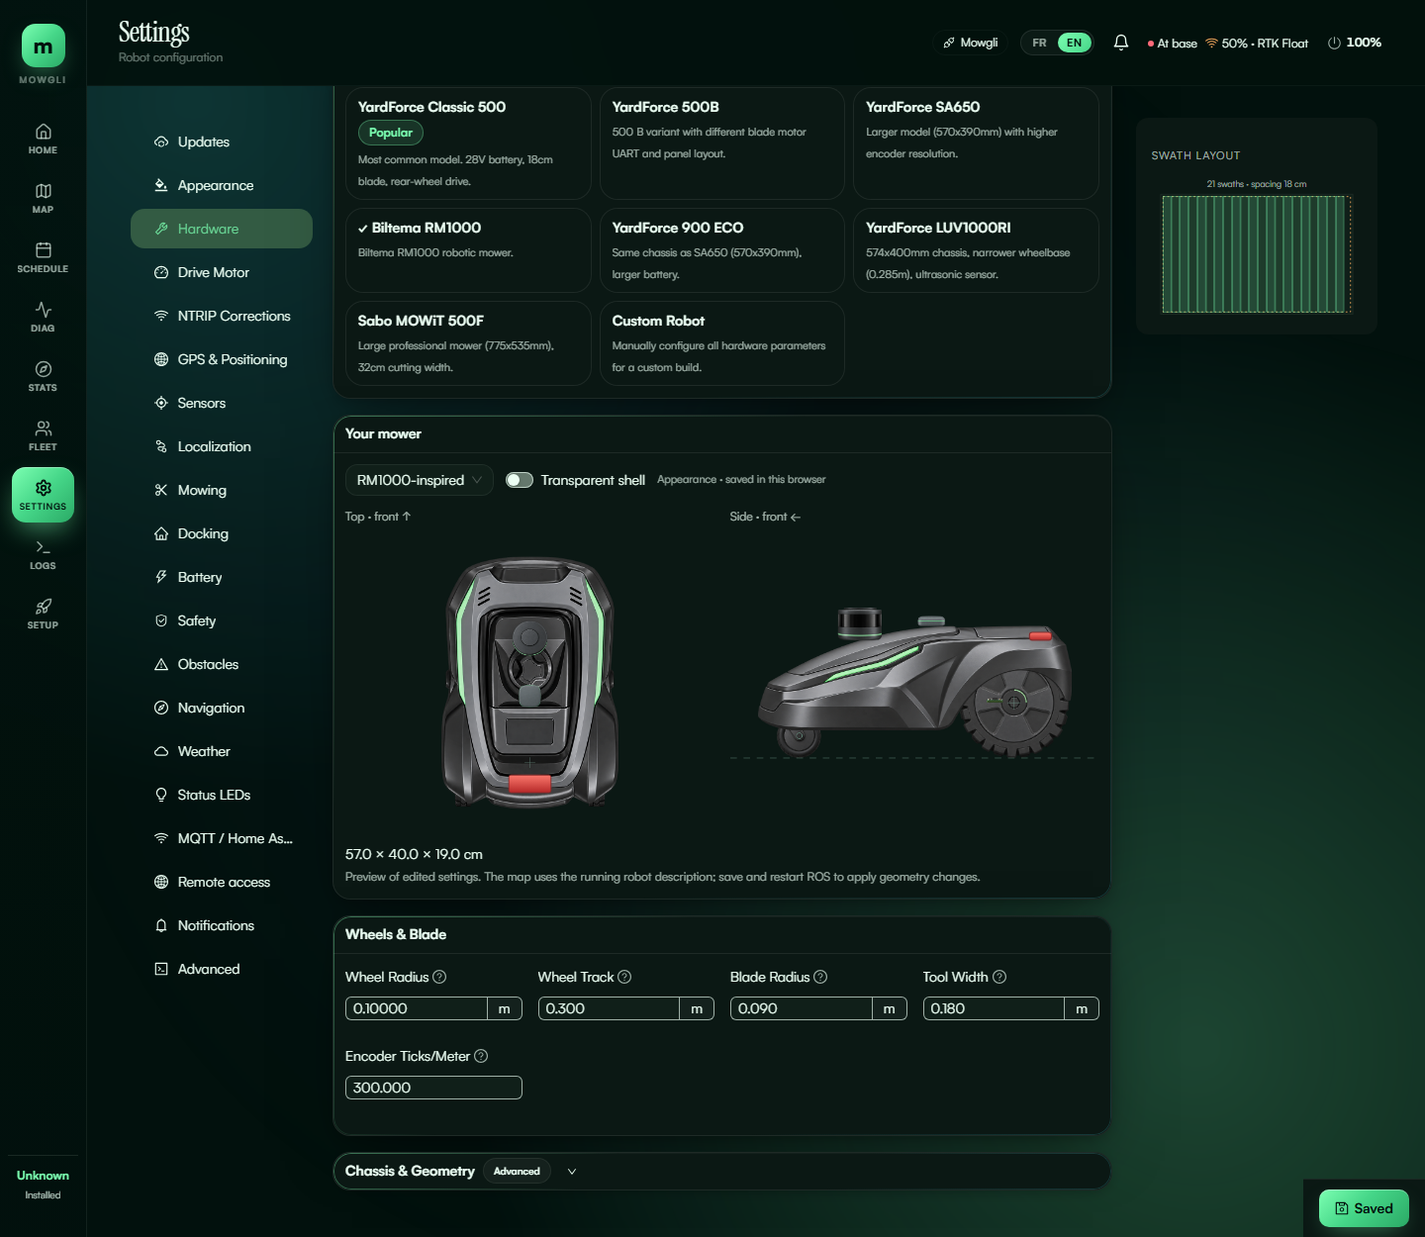
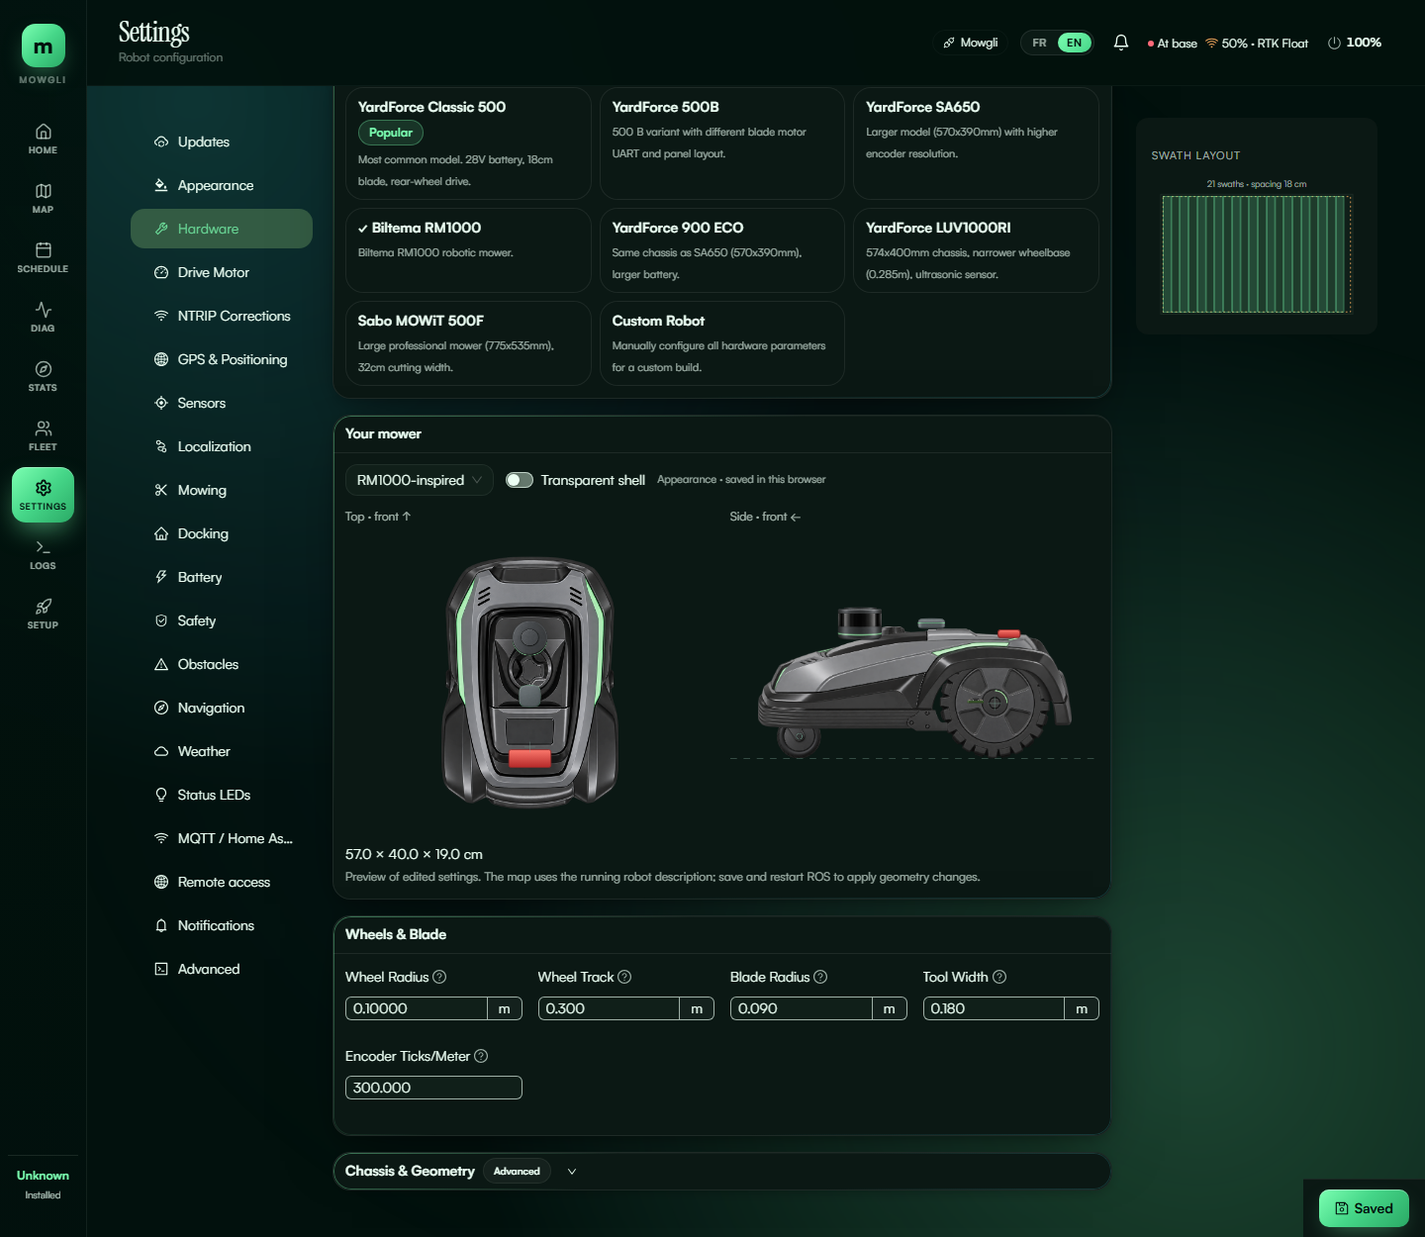
fix(gui): refine RM1000 side artwork and rear console anchors

Changed region(s): [[0.5312, 0.4992, 0.75, 0.624], [0.3438, 0.5928, 0.4062, 0.6552]]

diff --git a/gui/web/src/components/robot/LayeredMower.tsx b/gui/web/src/components/robot/LayeredMower.tsx
@@ -17,7 +17,7 @@ function ShellSprite({style, view, x, y, width, height, artwork}: {
         <svg data-layer="shell-art" x={x} y={y} width={width} height={height}
         viewBox={[sx,sy,sw,sh].join(" ")} preserveAspectRatio="none" overflow="hidden">
         <rect data-shell-bounds x={sx} y={sy} width={sw} height={sh} fill="none"/>
-        <image onLoad={()=>setLoaded(true)} onError={()=>setLoaded(false)} href={artwork === "map" ? `/assets/robots/layered/map/${style}-${view}.webp` : `/assets/robots/layered/${style}.png`}
+        <image onLoad={()=>setLoaded(true)} onError={()=>setLoaded(false)} href={artwork === "map" ? `/assets/robots/layered/map/${style}-${view}.webp` : `/assets/robots/layered/${shell.files?.[view] ?? `${style}.png`}`}
             x={artwork === "map" ? sx : 0} y={artwork === "map" ? sy : 0}
             width={artwork === "map" ? sw : shell.size[0]} height={artwork === "map" ? sh : shell.size[1]}/>
     </svg></>;
@@ -63,7 +63,8 @@ export const LayeredMower = memo(function LayeredMower({robot: r, style, transpa
     robot: RobotGeometry; style: MowerStyle; transparent: boolean; view?: RobotView; sensors?: boolean; highlightSensors?: boolean; internalDetails?: boolean; artwork?:"full"|"map";
 }) {
     const id = useId();
-    const rearX = r.chassisCenterX-r.baseLength*.40;
+    const stopAnchor = SHELLS[style].stop;
+    const rearX = r.chassisCenterX+r.baseLength*(.5-stopAnchor.fromFront);
     const buttonW = Math.min(.095,r.baseWidth*.30), buttonD = Math.min(.04,r.baseLength*.08);
     const bodyZ = r.chassisCenterZ ?? r.baseHeight/2;
     const bladeX = r.bladeX ?? r.chassisCenterX;
@@ -97,7 +98,7 @@ export const LayeredMower = memo(function LayeredMower({robot: r, style, transpa
         </g>
         <g data-layer="stop" data-robot-x={rearX}>
             <rect x={view === "top" ? -buttonW/2 : -rearX-buttonD/2}
-                y={view === "top" ? -rearX-buttonD/2 : -bodyZ-r.baseHeight/2+.012}
+                y={view === "top" ? -rearX-buttonD/2 : -bodyZ-r.baseHeight/2+r.baseHeight*stopAnchor.roofFromTop-.011}
                 width={view === "top" ? buttonW : buttonD} height={view === "top" ? buttonD : .014}
                 rx={.005} fill={`url(#${id})`} stroke="#872b2a" strokeWidth={.002}/>
         </g>

diff --git a/gui/web/src/components/robot/shellAssets.ts b/gui/web/src/components/robot/shellAssets.ts
@@ -1,15 +1,26 @@
 import type {MowerStyle} from "../../hooks/useMowerVisual";
 
-type Shell = {size: [number, number]; top: [number, number, number, number]; side: [number, number, number, number]};
+type Shell = {
+    /** Cosmetic console anchor within visible chassis bounds: front=0, rear=1.
+     * roofFromTop is the side silhouette height at that same longitudinal point.
+     * These move only the drawn button, never URDF geometry or safety controls. */
+    stop: {fromFront: number; roofFromTop: number};
+    files?: Partial<Record<"top" | "side", string>>;
+    size: [number, number];
+    top: [number, number, number, number];
+    side: [number, number, number, number];
+};
 /** Visible shell bounds in source pixels. Padding is deliberately excluded from
  * physical scaling. Bounds are the tight alpha >220 envelope of each isolated
  * source projection, verified against decoded PNG pixels in Playwright.
  * Both opacity modes use these exact same atlas regions. */
 export const SHELLS: Record<MowerStyle, Shell> = {
-    rm1000: {size: [1774,887], top: [73,48,624,804], side: [758,401,973,357]},
-    rounded: {size: [1774,887], top: [75,63,620,788], side: [911,339,825,284]},
-    sculpted: {size: [1774,887], top: [106,32,630,829], side: [795,302,931,338]},
-    utility: {size: [1774,887], top: [117,48,607,816], side: [831,356,874,261]},
-    yardforce: {size: [1774,887], top: [113,29,629,818], side: [852,274,857,371]},
+    // Separate side source preserves the approved top atlas byte-for-byte.
+    // Per-view sources use the same canvas dimensions as the default atlas.
+    rm1000: {stop: {fromFront: 0.8, roofFromTop: 0.092}, files: {side: "rm1000-side.png"}, size: [1774,887], top: [73,48,624,804], side: [44,162,1702,622]},
+    rounded: {stop: {fromFront: 0.82, roofFromTop: 0.092}, size: [1774,887], top: [75,63,620,788], side: [911,339,825,284]},
+    sculpted: {stop: {fromFront: 0.8, roofFromTop: 0.012}, size: [1774,887], top: [106,32,630,829], side: [795,302,931,338]},
+    utility: {stop: {fromFront: 0.84, roofFromTop: 0.069}, size: [1774,887], top: [117,48,607,816], side: [831,356,874,261]},
+    yardforce: {stop: {fromFront: 0.89, roofFromTop: 0.065}, size: [1774,887], top: [113,29,629,818], side: [852,274,857,371]},
 };
 

diff --git a/gui/web/tests/e2e/layered-mower.spec.ts b/gui/web/tests/e2e/layered-mower.spec.ts
@@ -126,15 +126,17 @@ test("all shell dimensions describe opaque chassis edges, excluding atlas margin
     const measured=await page.evaluate(async()=>{
         const result:Record<string,Record<string,number[]>>={};
         for(const style of ["rounded","sculpted","utility","yardforce","rm1000"]){
-            const image=new Image();image.src=`/assets/robots/layered/${style}.png`;await image.decode();
-            const canvas=document.createElement("canvas");canvas.width=image.width;canvas.height=image.height;
-            const ctx=canvas.getContext("2d",{willReadFrequently:true})!;ctx.drawImage(image,0,0);
-            const pixels=ctx.getImageData(0,0,image.width,image.height).data;
             result[style]={};
-            // The two isolated projections are separated at x=768 in these
-            // source atlases. Scan their whole cells, not just the crop metadata.
             const split = style === "rm1000" ? 740 : 768;
-            for(const [view,start,end] of [["top",0,split],["side",split,image.width]] as const){
+            for(const view of ["top","side"] as const){
+                const separateSide=style === "rm1000" && view === "side";
+                const image=new Image();image.src=`/assets/robots/layered/${style}${separateSide ? "-side" : ""}.png`;await image.decode();
+                const canvas=document.createElement("canvas");canvas.width=image.width;canvas.height=image.height;
+                const ctx=canvas.getContext("2d",{willReadFrequently:true})!;ctx.drawImage(image,0,0);
+                const pixels=ctx.getImageData(0,0,image.width,image.height).data;
+                // Scan the entire source cell, independent of crop metadata.
+                const start=separateSide || view === "top" ? 0 : split;
+                const end=separateSide || view === "side" ? image.width : split;
                 let minX=image.width,minY=image.height,maxX=-1,maxY=-1;
                 for(let y=0;y<image.height;y++)for(let x=start;x<end;x++){
                     // Ignore the antialias fringe; alpha >220 defines solid shell.

diff --git a/gui/web/tests/e2e/fixtures/chassis-gallery.tsx b/gui/web/tests/e2e/fixtures/chassis-gallery.tsx
@@ -9,6 +9,7 @@ const robot=previewRobotGeometry(parseRobotUrdf(ROBOT_URDF)!,{
     chassis_length:.60,chassis_width:.45,chassis_height:.19,chassis_z_offset:-.05,
     wheel_radius:.1,wheel_width:.04,wheel_track:.325,caster_x_offset:.39,caster_track:.28,
 });
+const rm1000Robot=previewRobotGeometry(robot,{chassis_center_x:.15,caster_x_offset:.36});
 const styles=[
     ["rounded","Rounded","Soft curves · compact silhouette"],
     ["sculpted","Sculpted","Flowing panels · contoured shoulders"],
@@ -36,11 +37,11 @@ createRoot(document.getElementById("root")!).render(<main>
     <div className="grid">{styles.map(([style,label,description],i)=><article key={style}>
         <div className="title"><span className="number">0{i+1}</span><h2>{label}</h2></div><p>{description}</p>
         <div className="views"><div className="view"><svg viewBox="-.255 -.51 .51 .66" aria-label={label+" top"}>
-            <LayeredMower robot={robot} style={style} transparent={false} view="top" sensors={false} internalDetails={false}/>
+            <LayeredMower robot={style === "rm1000" ? rm1000Robot : robot} style={style} transparent={false} view="top" sensors={false} internalDetails={false}/>
         </svg><div className="caption">TOP · FRONT ↑</div></div>
         <div className="view"><svg viewBox="-.51 -.28 .66 .48" aria-label={label+" side"}>
             <path d="M -.49 .102 H .14" stroke="#476c59" strokeWidth=".001" strokeDasharray=".012 .012"/>
-            <LayeredMower robot={robot} style={style} transparent={false} view="side" sensors={false} internalDetails={false}/>
+            <LayeredMower robot={style === "rm1000" ? rm1000Robot : robot} style={style} transparent={false} view="side" sensors={false} internalDetails={false}/>
         </svg><div className="caption">SIDE · FRONT ←</div></div></div>
     </article>)}<article>
         <div className="title"><span className="number">06</span><h2>Paired dock</h2></div>

diff --git a/gui/web/tests/e2e/layered-pr-gallery.spec.ts b/gui/web/tests/e2e/layered-pr-gallery.spec.ts
@@ -25,8 +25,9 @@ for(const example of ["yardforce500","custom-angular","rm1000"] as const){
                 lidar_x:.31,lidar_y:0,lidar_z:.139,lidar_yaw:0,
                 imu_x:.04,imu_y:-.09,imu_z:.015,imu_yaw:0} : example === "rm1000" ? {...custom,mower_model:"BiltemaRM1000",robot_name:"RM1000 illustration",
                 chassis_length:.57,chassis_width:.40,chassis_height:.19,chassis_z_offset:-.05,
-                chassis_center_x:.18,wheel_width:.04,wheel_track:.30,caster_x_offset:.39,caster_track:.26,
-                blade_radius:.09,tool_width:.18,gps_x:.15,gps_z:.148,lidar_x:.28,lidar_z:.143} : custom;
+                // Illustrative body position centres the photo-based arch over the rear axle.
+                chassis_center_x:.145,wheel_width:.04,wheel_track:.30,caster_x_offset:.355,caster_track:.26,
+                blade_radius:.09,tool_width:.18,gps_x:.115,gps_z:.145,lidar_x:.245,lidar_z:.145} : custom;
         await page.addInitScript(({style})=>{
             localStorage.setItem("mowglinext.lang","en");
             localStorage.setItem("mowgli.robot-visual.v1",JSON.stringify({style,transparent:false}));

diff --git a/gui/web/src/components/robot/LayeredMower.test.tsx b/gui/web/src/components/robot/LayeredMower.test.tsx
@@ -15,7 +15,9 @@ describe("layered mower",()=>{
             const wheels=container.querySelector('[data-layer="wheels"]')!.outerHTML;
             const sensors=Array.from(container.querySelectorAll("[data-sensor]")).map(s=>s.outerHTML);
             const stop=container.querySelector('[data-layer="stop"]')!;
-            expect(Number(stop.getAttribute("data-robot-x"))).toBeLessThan(robot.wheelXOffset);
+            // A rear console may be ahead of the drive axle but must stay in the rear half.
+            expect(Number(stop.getAttribute("data-robot-x"))).toBeLessThan(robot.chassisCenterX);
+            expect(Number(stop.getAttribute("data-robot-x"))).toBeGreaterThan(robot.chassisCenterX-robot.baseLength/2);
             expect(SHELLS[style].top[2]).toBeLessThan(SHELLS[style].size[0]);
             rerender(<svg><LayeredMower robot={robot} style={style} view={view} transparent/></svg>);
             expect(container.querySelector('[data-layer="shell"]')).toHaveAttribute("opacity","0.24");

diff --git a/gui/web/src/components/robot/rm1000-artwork-prompt.md b/gui/web/src/components/robot/rm1000-artwork-prompt.md
@@ -9,3 +9,16 @@ Project output: `public/assets/robots/layered/rm1000.png`.
 Prompt:
 
 Create one transparent sprite atlas with two precisely orthographic views of a robotic mower BODY SHELL ONLY. First image is shape reference: Biltema RM1000, recognise its long rounded rectangular shell, two broad shoulder strips, black recessed central panel, forward vents, rear console. Second image is style and atlas layout reference only: graphite gray materials and subtle mint green highlights. Restyle the RM1000 reference shell in graphite gray with restrained mint highlights (no blue). Layout: top view occupies left 45% of canvas, front faces UP, rear console at BOTTOM. Side elevation occupies right 52%, front faces LEFT, rear wheel arch on RIGHT. Side elevation is illustrative because only a top reference exists; keep consistent top features and a low smooth profile. Both views must depict same shell. Remove all wheels, casters, sensors, stickers, writing, branding and logos. No red STOP button baked into either view: app adds a separate red button at rear. Rear body intact with a clean console panel, no empty rear hole; side has a rear wheel recess. Truly transparent background and transparent wheel recesses. No floor, ground shadows, labels, measurement marks or perspective. Keep all shell edges inside frame with a little clear padding and a clear gap between views. Professional UI asset, matching second reference's lighting and quality. Landscape atlas.
+
+## Side-only revision from supplied photograph
+
+Output: `public/assets/robots/layered/rm1000-side.png`.
+Input: user-supplied RM1000 side photo (clipboard ff774aba-79d3-44f9-95be-269d297f4027), with the existing atlas as style reference.
+The top atlas is retained unchanged. Built-in imagegen, transparent background.
+
+Prompt:
+
+Use case: style-transfer. Create a single transparent orthographic SIDE ELEVATION asset of the RM1000 mower BODY SHELL ONLY, front facing LEFT, rear facing RIGHT. First input is the real side/three-quarter photograph: use it for the actual silhouette and body architecture. Second input is our approved gray/mint sprite atlas: use only for color/material/illustration style; do not reproduce its imaginary side shape and do not produce a top view. The real shell has a rounded low front bumper, stepped black lower front skirt, rising rounded shoulder toward rear, recessed central height-adjustment knob near middle/front, rear control console, very large rear wheel opening and a short rear apron descending behind that opening. Translate this photograph into a true horizontal orthographic side elevation without perspective. Gray graphite shell instead of blue, black lower skirt and wheel arch trim, restrained mint accents along shoulder matching approved top. Remove branding/text/logos, remove wheels and casters completely (wheel cutout must be genuinely transparent), remove ground/shadows. No external GPS/lidar, no red stop button (separate UI layer adds rear button); preserve closed rear console around it, not a rear hole. The body only, precise clean edges on fully transparent background, generous clear margin, landscape canvas. This is a layer for assembly with separate wheels. Main wheel arch must be large and open downwards, centred near 80% of shell length from the front, like photograph. Render a faithful stylized shell, not a sports car or generic futuristic body.
+
+Projection correction:
+Correct only the camera projection of this mower shell asset to a TRUE ORTHOGRAPHIC SIDE ELEVATION. Current image shows far too much of the top deck and front face. Camera must be perfectly horizontal at body mid-height, perpendicular to the left side; zero perspective and zero downward angle. Front LEFT, rear RIGHT. Keep the exact same RM1000 body architecture, gray/mint style, big transparent rear wheel opening, lower black front skirt, height adjustment knob and rear console. From exact side-on the knob and console are seen only as low profile silhouettes above the shoulder, NOT broad visible top surfaces. The far side must not be visible at all. Shell only, no wheels/casters/sensors/red stop button/text/branding/shadows. Fully transparent background; clean single side asset centered with padding. Keep skirt horizontal.

diff --git a/gui/web/src/components/robot/README.md b/gui/web/src/components/robot/README.md
@@ -65,7 +65,7 @@ Generation specification:
 - GPS: low rounded square graphite puck; LiDAR: short graphite cylinder;
   IMU: small green PCB with chip and mounting holes.
 - Dock: curved existing generic-station silhouette; head at top/left, horizontal
-  contact pins towards the parking tray. Nominal illustrative footprint 67 × 46 cm,
+  contact pins towards the parking tray. Nominal illustrative footprint 67 Ãƒâ€” 46 cm,
   height 15 cm; not a physical URDF/collision object. The saved dock pose anchors
   the parked rear axle, 10 cm ahead of the entry. Hardware supplies the paired
   dock automatically; the map has no independent dock appearance selector.
@@ -104,7 +104,7 @@ run in a non-root Go container. This feature has not been deployed to .118.
 The YardForce 500/500B starting value is **-0.050 m**, estimated from the supplied
 Classic 500/500B photos, not measured. With the configured 0.100 m wheel radius
 and 0.190 m body height, this puts the bottom 0.050 m and top 0.240 m above ground.
-The value is editable in Hardware → Chassis & Geometry, mirrored in the schema
+The value is editable in Hardware Ã¢â€ â€™ Chassis & Geometry, mirrored in the schema
 and passed through launch to both URDF body visual/collision origins. It does
 not move base_link, wheels, casters, blade or sensor frames and does not change
 the 2D navigation footprint. Other populated mower presets explicitly retain
@@ -278,13 +278,27 @@ renderers. The obsolete static generic mower WebP is no longer shipped.
 ### RM1000 artwork provenance
 
 `rm1000.png` was generated with the built-in imagegen tool from the contributed
-RM1000 overhead photograph plus `sculpted.png` as a style reference. It contains
-only a graphite/mint shell in top/front-up and side/front-left projections;
-wheels, sensors and the rear stop button are separate shared layers. The side
-profile is illustrative, inferred without a side photograph, not CAD. The exact
-prompt is in `rm1000-artwork-prompt.md` beside this file. The original remains in
-the generated-images archive; the project uses the committed copy and compact
-WebP derivatives. Top/side alpha >220 bounds are [73,48,624,804] and
-[758,401,973,357] in the 1774 × 887 atlas. Both solid and transparent modes use
-these same bounds. No RM1000 physical defaults have been invented; its geometry
-preset remains empty and existing/custom dimensions drive the renderer.
+RM1000 overhead photograph plus `sculpted.png` as a style reference. Its approved
+top view is unchanged. The side now uses `rm1000-side.png`, generated from the
+user-supplied RM1000 side photograph (clipboard ff774aba-79d3-44f9-95be-269d297f4027).
+It follows the stepped front skirt, raised console and large rear wheel opening,
+restyled in graphite/mint. Wheels, sensors and the rear stop remain separate layers.
+This is a photo-informed illustration, not CAD or new physical measurements.
+
+The exact generation and projection-correction prompts are in
+`rm1000-artwork-prompt.md`. Both committed sources have a 1774 Ã— 887 canvas;
+`SHELLS.files.side` selects the separate side source without modifying the top.
+Alpha >220 bounds are [73,48,624,804] for top and [44,162,1702,622] for side.
+Both solid and transparent modes use the same bounds. The compact map top WebP
+is also unchanged; the side derivative is regenerated by the existing pipeline.
+No RM1000 physical defaults have been invented; its geometry preset remains empty
+and existing/custom dimensions drive the renderer.
+
+### Rear console button placement
+
+The red stop button is an independent SVG layer. `SHELLS.stop.fromFront` anchors
+it within the visible chassis length (front=0, rear=1), shared by both projections.
+`roofFromTop` seats its side silhouette on that shell's local roof. Anchors are
+artwork metadata and never shift the real wheels, sensors, or safety controls.
+The RM1000 screenshot fixtures align the chassis wheel arch to the rear axle;
+production wheel placement continues to come only from configured/running geometry.

diff --git a/docs/pr/layered-mower/README.md b/docs/pr/layered-mower/README.md
@@ -41,6 +41,8 @@ geometry acceptance have not been completed.
 screen. It uses the production `LayeredMower` renderer with the same
 600 x 450 x 190 mm geometry for all five styles, 200 mm drive wheels,
 325 mm centre track, 40 mm tyre width and casters at X=390 mm / track=280 mm.
+RM1000 uses chassis centre X=150 mm and caster X=360 mm to align its rear
+wheel opening with the axle; the other gallery shells retain centre X=180 mm.
 Sensors are omitted to make the shell shapes easy to compare. Reproduce with:
 
 ```sh
@@ -71,16 +73,16 @@ Sensor-editor screenshots refreshed after the review fixes for independent drag/
 
 The gallery now includes five shells plus the shared paired dock. RM1000 was
 converted from a static map photo to the same independently scaled shell, wheels,
-casters, blade and sensors. Its generated side profile is illustrative; no side
-photo or new physical measurement supports it. The model preset's numerical
+casters, blade and sensors. Its side profile now follows the user-supplied RM1000 side photograph,
+restyled in graphite/mint. It remains an illustration, not a measured model. The model preset's numerical
 geometry remains empty. Hardware presets can declare a chassis/dock appearance
 pair independently of ROS parameters. Both separate map appearance selectors
 are replaced by a Hardware link; legacy dock overrides are no longer read.
 
-`rm1000-hardware.png` and `rm1000-sensors.png` use illustrative 570 × 400 × 190 mm
-geometry, chassis centre X=0.18 m and bottom Z=-0.05 m; wheels radius=0.10 m,
-width=0.04 m, track=0.30 m; casters radius=0.04 m, X=0.39 m, track=0.26 m.
-GPS is at (0.15, 0, 0.148), LiDAR (0.28, 0, 0.143), IMU (0.035, -0.09, 0.005).
+`rm1000-hardware.png` and `rm1000-sensors.png` use illustrative 570 Ã— 400 Ã— 190 mm
+geometry, chassis centre X=0.145 m and bottom Z=-0.05 m; wheels radius=0.10 m,
+width=0.04 m, track=0.30 m; casters radius=0.04 m, X=0.355 m, track=0.26 m.
+GPS is at (0.115, 0, 0.145), LiDAR (0.245, 0, 0.145), IMU (0.035, -0.09, 0.005).
 The sensor heights meet the visible shell roof in this illustration. They are
 not recommended physical RM1000 mounting settings.
 
@@ -94,3 +96,20 @@ cases, TypeScript, production build and lint (0 errors, 898 existing warnings).
 The final RM1000 capture and gallery were refreshed and individually rechecked.
 The earlier merged baseline passed 949 unit tests before the RM1000 conversion;
 that number is not a claim about the later removal of obsolete static-menu tests.
+
+## Photo-based RM1000 side and console anchors
+
+The supplied side photograph replaces the previously inferred side silhouette.
+The approved top source PNG and compact top WebP are byte-for-byte unchanged.
+The screenshot example moves the chassis 35 mm rearward relative to the axle,
+with its roof sensors and front casters following the body; wheel radius and
+wheel-centre track are unchanged. These are illustrative fixture values only.
+
+Stop buttons are SVG layers, not generated into the shell images. Each style now
+specifies its own rear-console position and local roof height, in visible-shell
+fractions. Top and side share the same fore/aft position; solid and transparent
+modes retain the same anchor. They do not change URDF geometry or robot controls.
+
+Validation: 16 renderer tests, TypeScript and targeted ESLint passed. All 22
+Hardware/Sensors/gallery/map browser cases passed after the side and anchor edits.
+Application screenshots use mocked telemetry; no robot was contacted.
